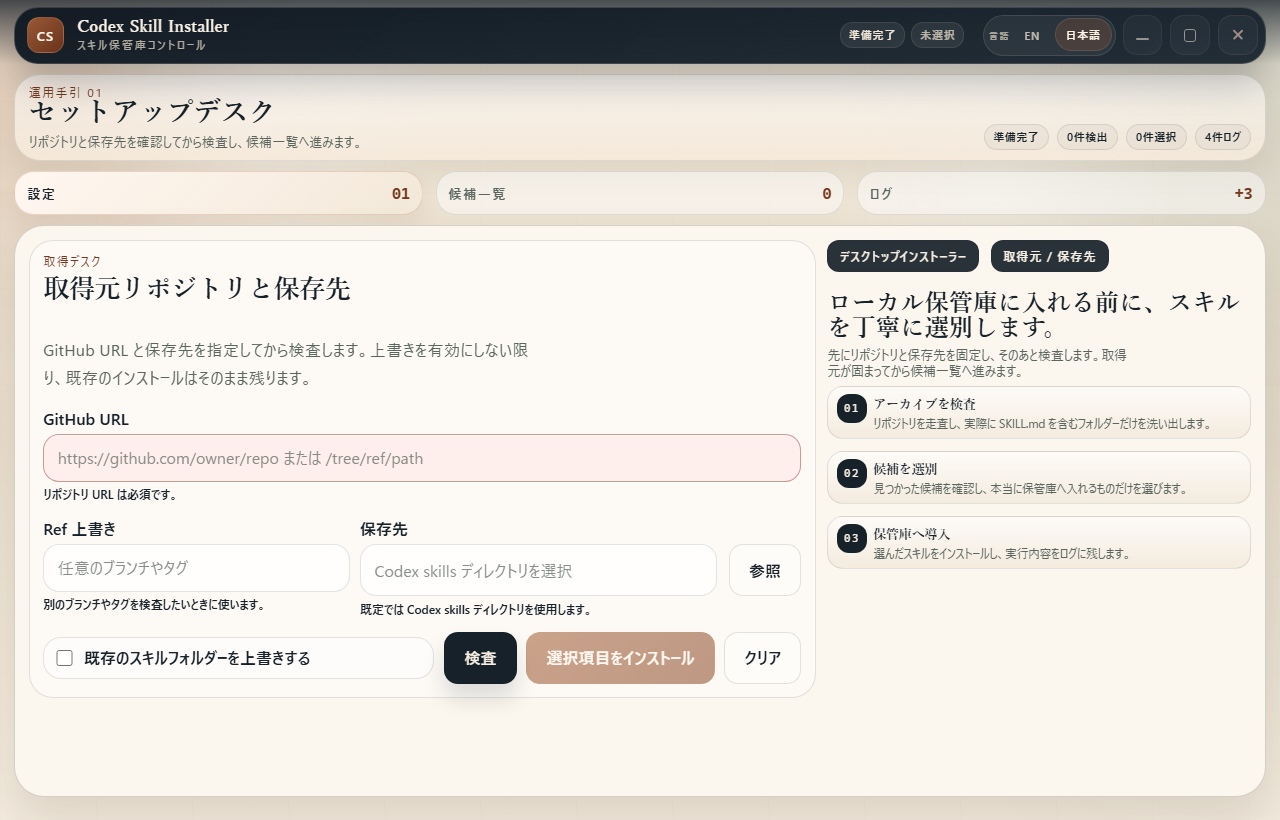
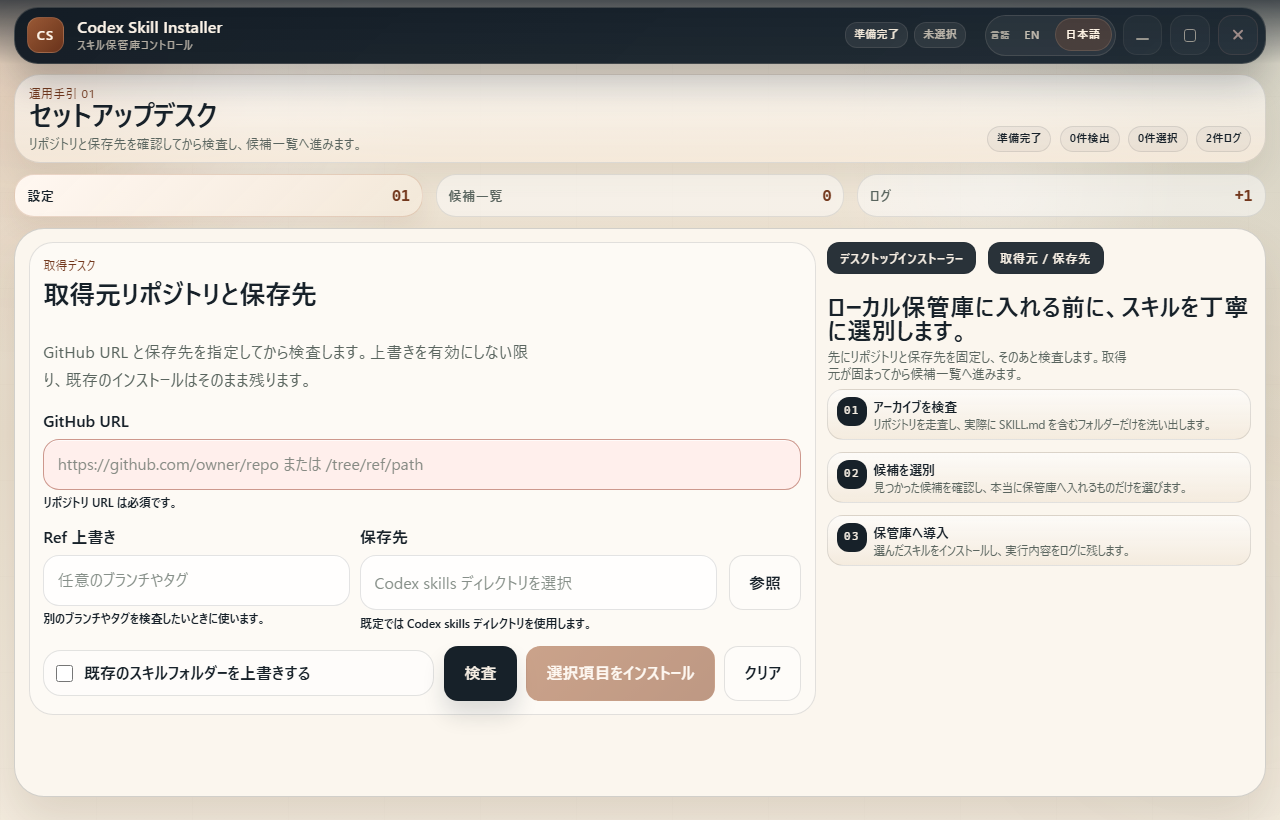
🖋 Unify the desktop typography across locales
- replace the mixed serif and sans UI stack with one Japanese-friendly gothic family
- relax Japanese letter spacing and uppercase-heavy label styling to reduce visual jitter
- refresh the English and Japanese setup screenshots after the typography pass

diff --git a/src/styles.css b/src/styles.css
@@ -1,7 +1,7 @@
 :root {
-  --display-font: "Yu Mincho", "Hiragino Mincho ProN", "Georgia", serif;
-  --body-font: "Aptos", "Segoe UI Variable Text", "Yu Gothic UI", sans-serif;
-  --mono-font: "Cascadia Code", "Consolas", monospace;
+  --display-font: "Yu Gothic UI", "Yu Gothic", "Hiragino Sans", "Meiryo", "Segoe UI Variable Text", sans-serif;
+  --body-font: "Yu Gothic UI", "Yu Gothic", "Hiragino Sans", "Meiryo", "Segoe UI Variable Text", sans-serif;
+  --mono-font: "Cascadia Mono", "Cascadia Code", "Consolas", monospace;
   --paper: #f3ebdf;
   --paper-panel: #fbf6ee;
   --paper-soft: #f4ece0;
@@ -48,10 +48,50 @@ body {
   min-height: 100dvh;
   color: var(--ink);
   font-family: var(--body-font);
+  line-height: 1.5;
   background:
     radial-gradient(circle at top left, rgba(164, 94, 55, 0.16), transparent 24%),
     radial-gradient(circle at right 10%, rgba(52, 94, 85, 0.12), transparent 30%),
     linear-gradient(180deg, #efe6d7 0%, #eadfce 53%, #f4ecdf 100%);
+}
+
+html[lang="ja"] {
+  font-feature-settings: "palt" 1;
+}
+
+html[lang="ja"] .titlebar-subtitle,
+html[lang="ja"] .eyebrow,
+html[lang="ja"] .panel-kicker,
+html[lang="ja"] .titlebar-chip,
+html[lang="ja"] .titlebar-locale-caption,
+html[lang="ja"] .hero-stamp,
+html[lang="ja"] .panel-tag,
+html[lang="ja"] .mini-stats span,
+html[lang="ja"] .workspace-header-metrics span,
+html[lang="ja"] .app-tab span,
+html[lang="ja"] .workspace-tab span,
+html[lang="ja"] .workspace-focus-note span,
+html[lang="ja"] .status-pill,
+html[lang="ja"] .status-kicker,
+html[lang="ja"] .status-metric span,
+html[lang="ja"] .control-fieldnote-label {
+  letter-spacing: 0.06em;
+  text-transform: none;
+}
+
+html[lang="ja"] .titlebar-title,
+html[lang="ja"] .hero-copy h1,
+html[lang="ja"] .workspace-header h1,
+html[lang="ja"] .setup-copy h2,
+html[lang="ja"] .panel-heading h2,
+html[lang="ja"] .dialog-card h3,
+html[lang="ja"] .setup-copy .rundown-card h3,
+html[lang="ja"] .status-lead,
+html[lang="ja"] .status-metric strong,
+html[lang="ja"] .workspace-overview h2 {
+  font-family: var(--display-font);
+  font-weight: 700;
+  letter-spacing: 0.01em;
 }
 
 button,
